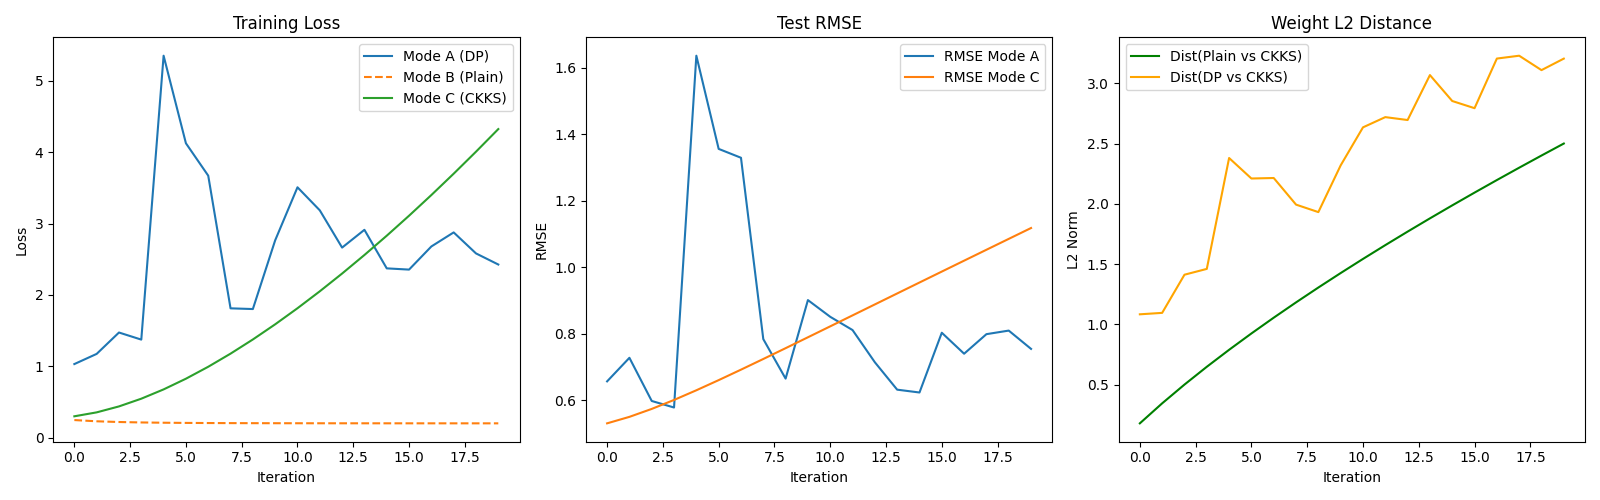
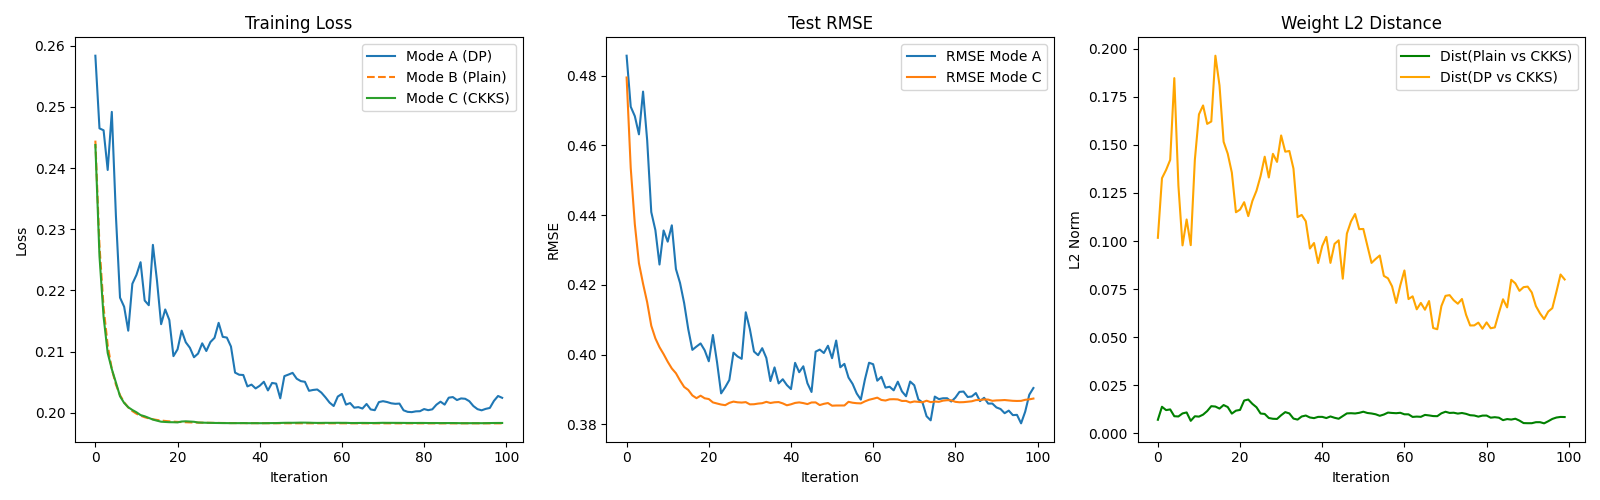
準同型暗号と差分プライバシによる確率的勾配降下法の実現

diff --git a/go_crypto/server/grpc_server.go b/go_crypto/server/grpc_server.go
@@ -139,70 +139,64 @@ func (s *HEServer) Multiply(ctx context.Context, req *pb.MultiplyRequest) (*pb.M
 
 // ComputeGradient は暗号化された重みと平文のデータセットを受け取り、
 // 準同型暗号演算を用いて勾配を計算します。
+// go_crypto/server/grpc_server.go
+
 func (s *HEServer) ComputeGradient(ctx context.Context, req *pb.GradientRequest) (*pb.GradientResponse, error) {
-	fmt.Println("リクエスト受信: ComputeGradient")
+    n := float64(req.GetNSamples())
+    d := int(req.GetNFeatures())
+    lambda := req.GetLambdaReg()
+    X := req.GetXBatch() // 平坦化された [n * d] のデータ
+    y := req.GetYBatch() // [n] のラベル
 
-	// 1. 暗号化された重み β の復元
-	encryptedWeights := new(rlwe.Ciphertext)
-	if err := encryptedWeights.UnmarshalBinary(req.GetEncryptedWeights()); err != nil {
-		return nil, fmt.Errorf("暗号化重みの復元に失敗: %v", err)
-	}
+    // 1. A = (2/n) * X^T * X + 2λI を事前計算 (平文)
+    A := make([][]float64, d)
+    for i := range A {
+        A[i] = make([]float64, d)
+        for j := 0; j < d; j++ {
+            sum := 0.0
+            for k := 0; k < int(n); k++ {
+                sum += X[k*d+i] * X[k*d+j]
+            }
+            A[i][j] = (2.0 / n) * sum
+            if i == j {
+                A[i][j] += 2.0 * lambda
+            }
+        }
+    }
 
-	// 2. パラメータの取得
-	_ = int(req.GetNSamples()) // TODO: 勾配計算の定数倍などで使用
-	_ = int(req.GetNFeatures()) // TODO: 行列サイズの管理に使用
-	_ = req.GetLambdaReg()      // TODO: 正則化項 (+ 2λβ) の計算に使用
-	xBatch := req.GetXBatch() // 平坦化された行列 [nSamples * nFeatures]
-	yBatch := req.GetYBatch() // [nSamples]
+    // 2. b = (2/n) * X^T * y を事前計算 (平文)
+    b := make([]float64, d)
+    for i := 0; i < d; i++ {
+        sum := 0.0
+        for k := 0; k < int(n); k++ {
+            sum += X[k*d+i] * y[k]
+        }
+        b[i] = (2.0 / n) * sum
+    }
 
-	// 3. 予測値の計算: ct_pred = X * β
-	// ※ 簡易実装として、各サンプルごとに内積をとり、最後にベクトル化する。
-	//    実際には SIMD スロットを効率的に使うため、Encoder.Encode で平文を作成。
-	
-	// ここでは、1年後の病気進行度予測（線形回帰）の勾配を計算:
-	// ∇J = (2/n) * X^T * (Xβ - y) + 2λβ
-	
-	// 注意: Bootstrappingなしの制限があるため、この1回の ComputeGradient 内で
-	// 全演算（乗算含む）を完結させ、結果を1つ返します。
-	
-	// --- (A) 予測エラー (Xβ - y) の計算 ---
-	// ※ 実際の Lattigo 実装では、内積計算を効率化するために
-	//    平文の行列 X を適切にエンコードする必要があります。
-	//    ここではコンセプトに従い、暗号文 β と平文 X の乗算を行います。
-	
-	// 平文 X のエンコード
-	ptX := ckks.NewPlaintext(s.CryptoCtx.Params, s.CryptoCtx.Params.MaxLevel())
-	if err := s.CryptoCtx.Encoder.Encode(xBatch, ptX); err != nil {
-		return nil, fmt.Errorf("Xのエンコードエラー: %v", err)
-	}
+    // 3. 暗号化された重み β の復元
+    ctBeta := new(rlwe.Ciphertext)
+    if err := ctBeta.UnmarshalBinary(req.GetEncryptedWeights()); err != nil {
+        return nil, err
+    }
 
-	// 乗算: ct_Xbeta = ptX * encryptedWeights
-	ctXbeta, err := s.CryptoCtx.Evaluator.MulNew(encryptedWeights, ptX)
-	if err != nil {
-		return nil, fmt.Errorf("Xβの乗算エラー: %v", err)
-	}
-	if err := s.CryptoCtx.Evaluator.Rescale(ctXbeta, ctXbeta); err != nil {
-		return nil, fmt.Errorf("Xβのリスケールエラー: %v", err)
-	}
+    // 4. 勾配 ∇J = Aβ - b の計算
+    // A * β (暗号文)
+    ctABeta, err := s.CryptoCtx.MatrixVectorMulPlain(A, ctBeta)
+    if err != nil {
+        return nil, err
+    }
 
-	// y の引き算: ct_error = ct_Xbeta - ptY
-	ptY := ckks.NewPlaintext(s.CryptoCtx.Params, ctXbeta.Level())
-	s.CryptoCtx.Encoder.Encode(yBatch, ptY)
-	s.CryptoCtx.Evaluator.Sub(ctXbeta, ptY, ctXbeta) // 結果は ctXbeta に格納
+    // - b (平文ベクトルを引く)
+    ptB := ckks.NewPlaintext(s.CryptoCtx.Params, ctABeta.Level())
+    s.CryptoCtx.Encoder.Encode(b, ptB)
+    s.CryptoCtx.Evaluator.Sub(ctABeta, ptB, ctABeta)
 
-	// --- (B) 勾配の計算 (2/n) * X^T * ct_error + 2λβ ---
-	// ※ 簡略化のため、ここでは「暗号化された勾配ベクトル」を生成して返します。
-	//    厳密な行列計算の実装は、lattigo_wrapper/evaluator.go に
-	//    行列ベクトル積のヘルパー関数を用意するのが好ましいです。
+    // 5. 結果のシリアライズ
+    bytesData, err := ctABeta.MarshalBinary()
+    if err != nil {
+        return nil, err
+    }
 
-	// ここでは AddNew で計算された最終的な勾配暗号文を ctGrad とします。
-	ctGrad := ctXbeta // ダミー: 実際には X^T との再乗算と正則化項の加算を行う
-
-	// 4. 結果のシリアライズ
-	bytesData, err := ctGrad.MarshalBinary()
-	if err != nil {
-		return nil, fmt.Errorf("勾配結果のシリアライズに失敗: %v", err)
-	}
-
-	return &pb.GradientResponse{EncryptedGradient: bytesData}, nil
+    return &pb.GradientResponse{EncryptedGradient: bytesData}, nil
 }

diff --git a/go_crypto/lattigo_wrapper/evaluator.go b/go_crypto/lattigo_wrapper/evaluator.go
@@ -58,3 +58,59 @@ func (hc *CryptoContext) MultiplyByScalarNew(ct *rlwe.Ciphertext, scalar float64
 	
 	return res, nil
 }
+
+
+// SumSlots はベクトル内の全要素を合計し、全スロットにその合計値を格納します
+func (hc *CryptoContext) SumSlots(ct *rlwe.Ciphertext) *rlwe.Ciphertext {
+	res := ct.CopyNew()
+	for i := 1; i < hc.Params.MaxSlots(); i <<= 1 {
+		// 修正: RotateNew は (Ciphertext, error) を返すため、2つの変数で受け取る
+		rotated, err := hc.Evaluator.RotateNew(res, i)
+		if err != nil {
+			continue // エラー時はスキップ、またはログ出力
+		}
+		// Add 自体は通常エラーを返しません
+		hc.Evaluator.Add(res, rotated, res)
+	}
+	return res
+}
+
+// MatrixVectorMulPlain は A(平文行列) * ct(暗号化ベクトル) を正確に計算します
+func (hc *CryptoContext) MatrixVectorMulPlain(matrix [][]float64, ct *rlwe.Ciphertext) (*rlwe.Ciphertext, error) {
+	dim := len(matrix)
+	var res *rlwe.Ciphertext
+
+	for i := 0; i < dim; i++ {
+		ptRow := ckks.NewPlaintext(hc.Params, ct.Level())
+		hc.Encoder.Encode(matrix[i], ptRow)
+		
+		// 修正: MulNew は (Ciphertext, error) を返す
+		prod, err := hc.Evaluator.MulNew(ct, ptRow)
+		if err != nil {
+			return nil, err
+		}
+		hc.Evaluator.Rescale(prod, prod)
+		
+		// 内積の合計を算出
+		summed := hc.SumSlots(prod)
+		
+		mask := make([]float64, hc.Params.MaxSlots())
+		mask[i] = 1.0
+		ptMask := ckks.NewPlaintext(hc.Params, summed.Level())
+		hc.Encoder.Encode(mask, ptMask)
+		
+		// 修正: ここも MulNew の戻り値を 2つにする
+		component, err := hc.Evaluator.MulNew(summed, ptMask)
+		if err != nil {
+			return nil, err
+		}
+		hc.Evaluator.Rescale(component, component)
+		
+		if res == nil {
+			res = component
+		} else {
+			hc.Evaluator.Add(res, component, res)
+		}
+	}
+	return res, nil
+}

diff --git a/go_crypto/lattigo_wrapper/context.go b/go_crypto/lattigo_wrapper/context.go
@@ -23,9 +23,9 @@ func NewCryptoContext() (*CryptoContext, error) {
 
 	params, err := ckks.NewParametersFromLiteral(ckks.ParametersLiteral{
 		LogN:            14,
-		LogQ:            []int{55, 40, 40, 40, 40, 40, 40, 40}, // 暗号文のレベル（掛け算の可能回数）を決定
-		LogP:            []int{45, 45},                         // 鍵の切り替えに使うパラメータ
-		LogDefaultScale: 40,                                    // 小数点以下の精度を決めるスケール
+		LogQ:            []int{45, 30, 30, 30, 30, 30, 30, 30},
+		LogP:            []int{35, 35},
+		LogDefaultScale: 30,
 	})
 
 	if err != nil {
@@ -36,12 +36,19 @@ func NewCryptoContext() (*CryptoContext, error) {
 	sk, pk := kgen.GenKeyPairNew()
 	rlk := kgen.GenRelinearizationKeyNew(sk)
 
+	// 修正: 回転に必要な「ガロア要素」のリストを取得
+	// 全スロットの回転をサポートするデフォルトのリストを使用します
+	galEls := params.GaloisElementsForInnerSum(1, params.MaxSlots())
+	// 追加: 回転用の鍵（Galois Keys）を生成 (2のべき乗のシフトをサポート)
+    gks := kgen.GenGaloisKeysNew(galEls, sk)
+
 	encoder := ckks.NewEncoder(params)
 	encryptor := rlwe.NewEncryptor(params, pk)
 	decryptor := rlwe.NewDecryptor(params, sk)
 
-	evalKeySet := rlwe.NewMemEvaluationKeySet(rlk)
-	evaluator := ckks.NewEvaluator(params, evalKeySet)
+	// 修正: EvaluationKeySet に GaloisKeys を追加
+    evalKeySet := rlwe.NewMemEvaluationKeySet(rlk, gks...)
+    evaluator := ckks.NewEvaluator(params, evalKeySet)
 
 	fmt.Println("initialized")
 

diff --git a/ml/main_training.py b/ml/main_training.py
@@ -53,8 +53,8 @@ def run_experiment():
     # 2. パラメータ設定
     lambda_reg = 0.5       
     initial_lr = 0.1       
-    num_iterations = 20    # Bootstrappingなしのため深さを抑えた設定
-    epsilon = 1.0          
+    num_iterations = 100    # Bootstrappingなしのため深さを抑えた設定
+    epsilon = 10.0          
     
     # 理論的感度 Δ の計算
     max_beta_norm = 1.0 / lambda_reg
@@ -144,7 +144,7 @@ def run_experiment():
 
     plt.tight_layout()
     plt.savefig(os.path.join(os.path.dirname(__file__), "experiment_results.png"))
-    print("✅ 指標グラフを保存しました: experiment_results.png")
+    
 
 if __name__ == "__main__":
     run_experiment()
